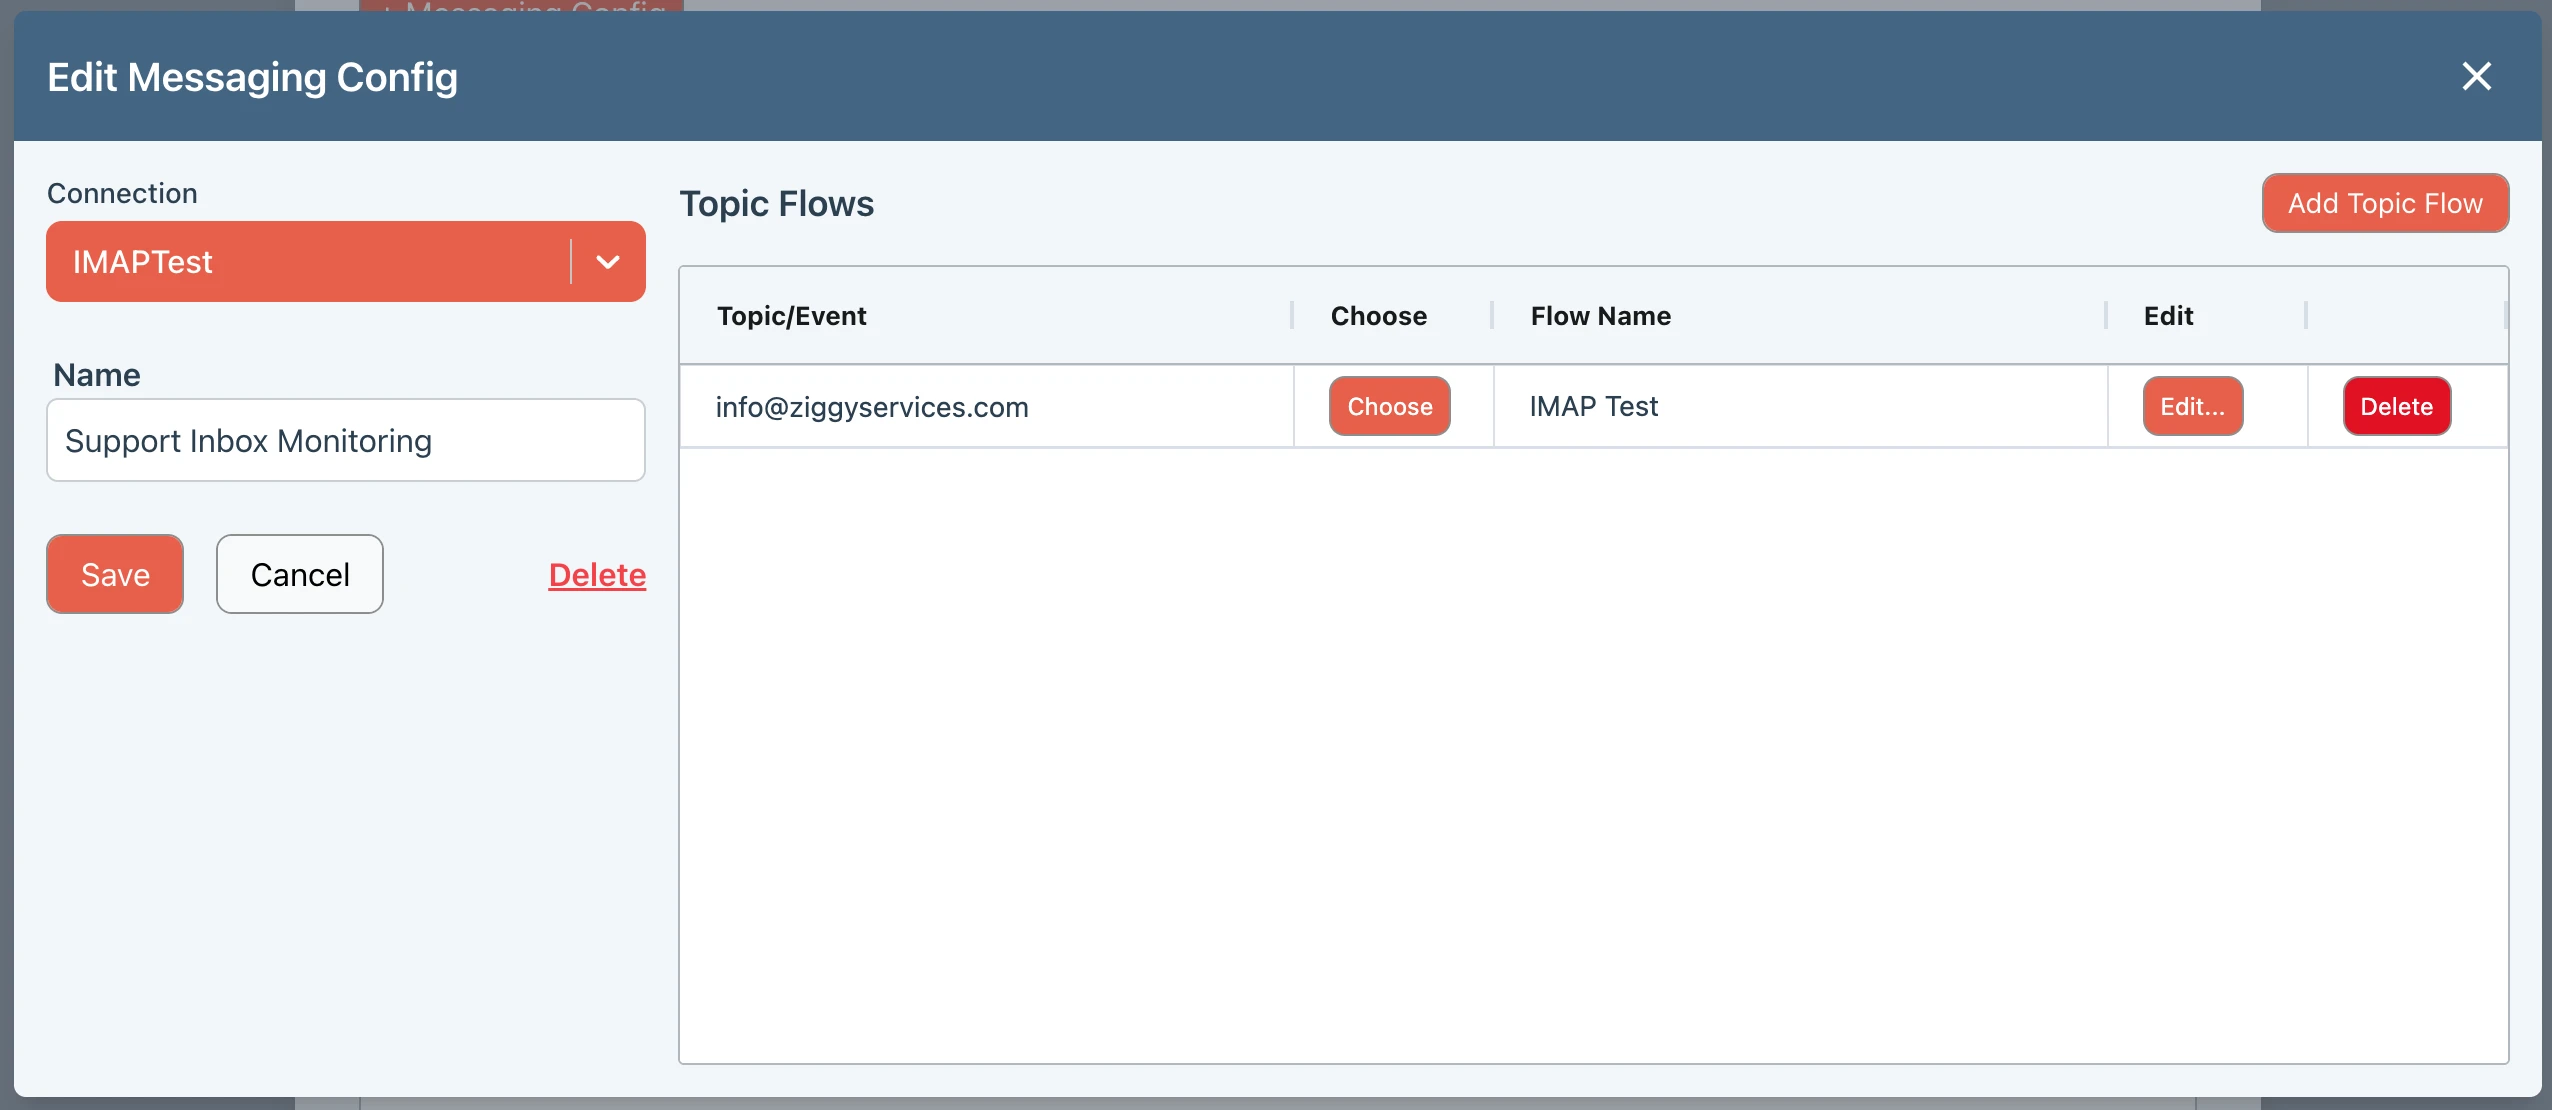
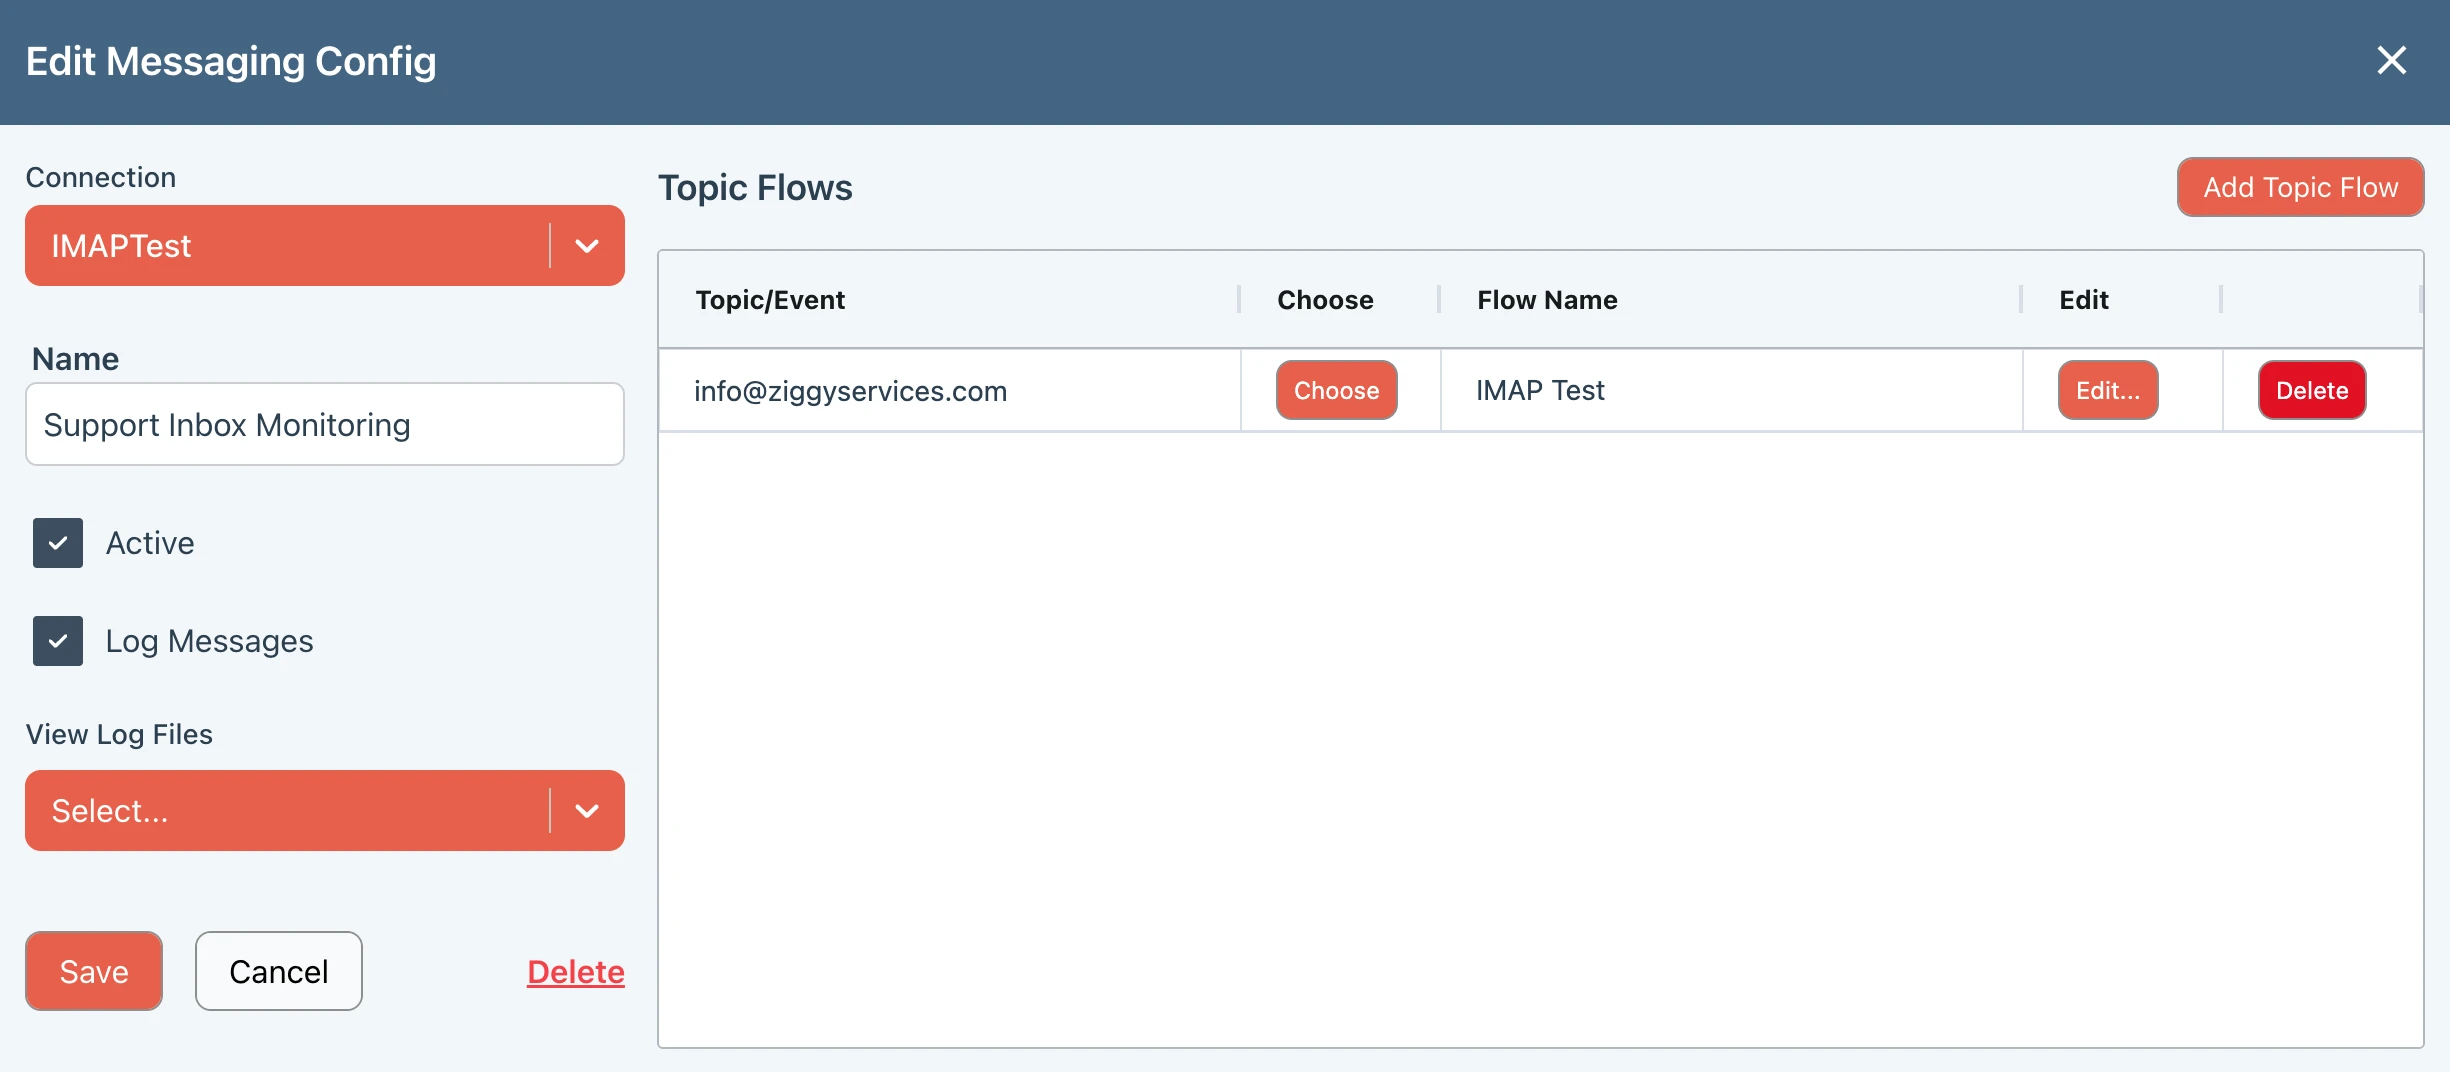
messaging open

Changed region(s): [[0.0, 0.0, 1.0, 1.0], [0.2171, 0.8927, 0.2792, 0.9235], [0.2171, 0.4925, 0.2482, 0.5541]]

diff --git a/docs/user-guide/Messaging.md b/docs/user-guide/Messaging.md
@@ -36,14 +36,28 @@ Click on an item in the listing to bring up the configuration screen.
 
 <img src="/img/messaging/imap.webp" alt="mqtt publish" width="1000" />
 
-- Select a [Connection](/user-guide/Connections.md) to use.
-- Enter a friendly name.
-- Press the **Add Topic Flow** button to add an entry into the Topic Flows listing.
-- Double-click in the Topic/Event field to provide the email, channel, stream (whatever is relevant for your messaging tyoe).
-- Choose a flow that will be launched when a notification is received.
-- Press **Save** when finished.
+### Connection
+Select a [Connection](/user-guide/Connections.md) to use. You need to have configured the connection first. You will only be shown connection types that work with the Messaging Center.
 
-You can also update the configuration at any time. 
+### Name
+Enter a friendly name that will appear in the main Messaging Center listing.
+
+### Active
+You can toggle this setting. Disabling it will suspend messages from being processed.
+
+### Log Message
+This enables logging for all events and updates made in this screen.
+
+You can view the logs from the **View Log Files** dropdown.
+
+## Adding Topic Flows
+- Press the **Add Topic Flow** button to add an entry into the Topic Flows listing.
+- Double-click in the Topic/Event field to provide the email, channel, stream (whatever is relevant for your messaging type).
+- Choose a flow that will be launched when a notification is received.
+
+## Saving
+Press **Save** when to save any changes made anywhere on this screen. The service will be updated within a brief time.
+
 
 ## Ziggy Blocks
 
